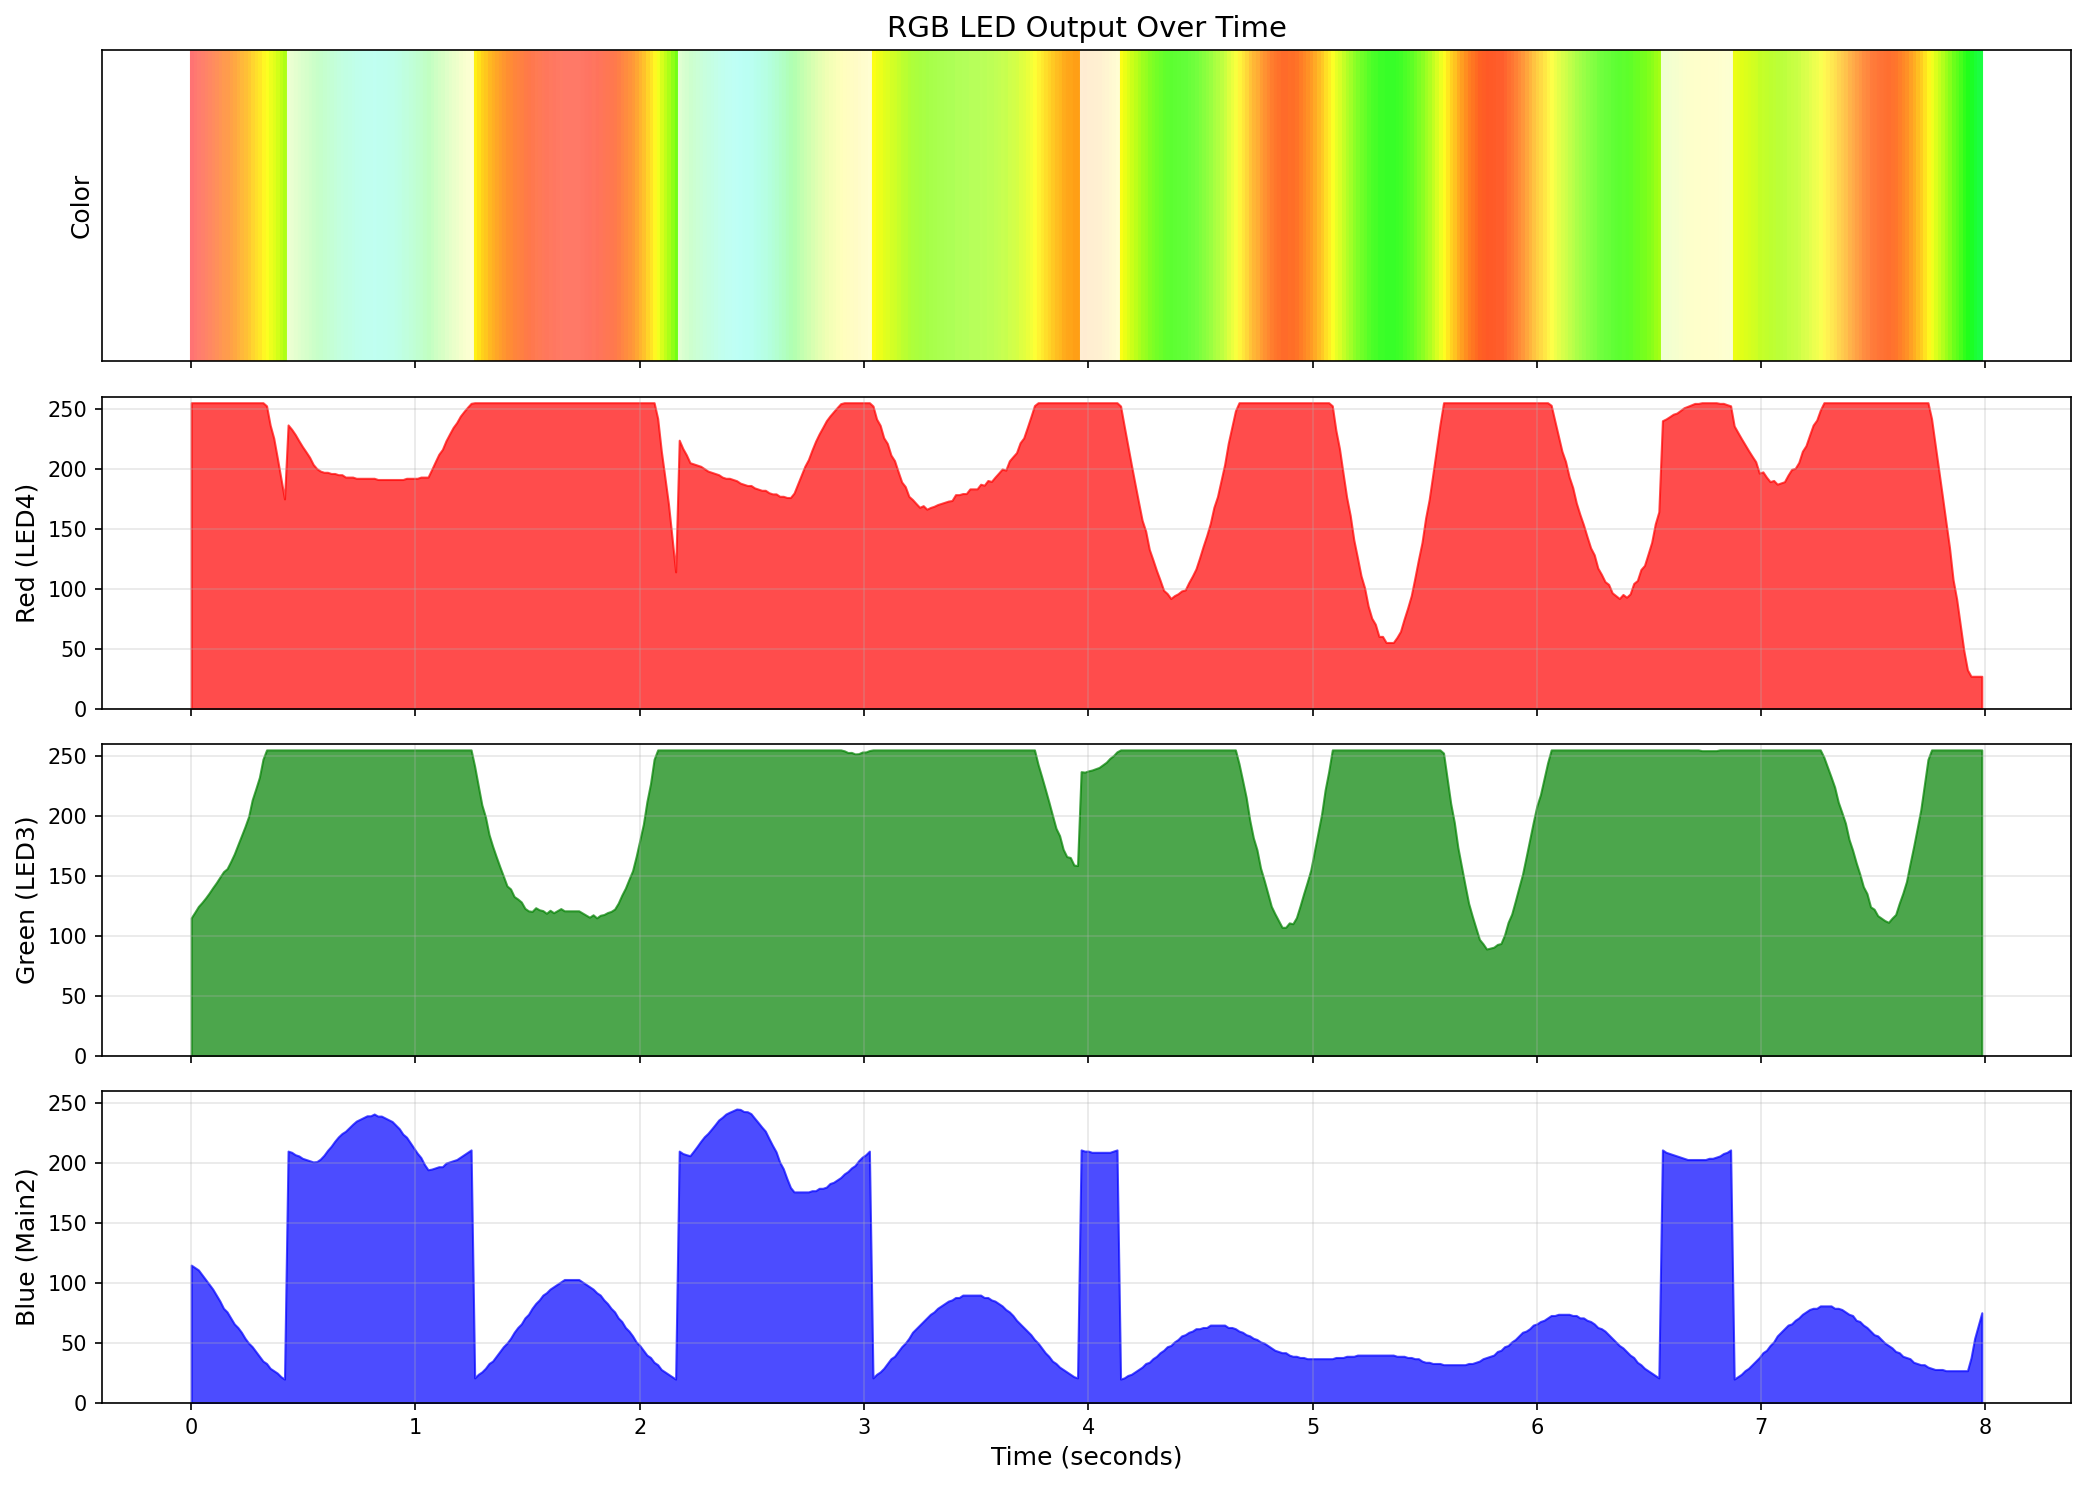
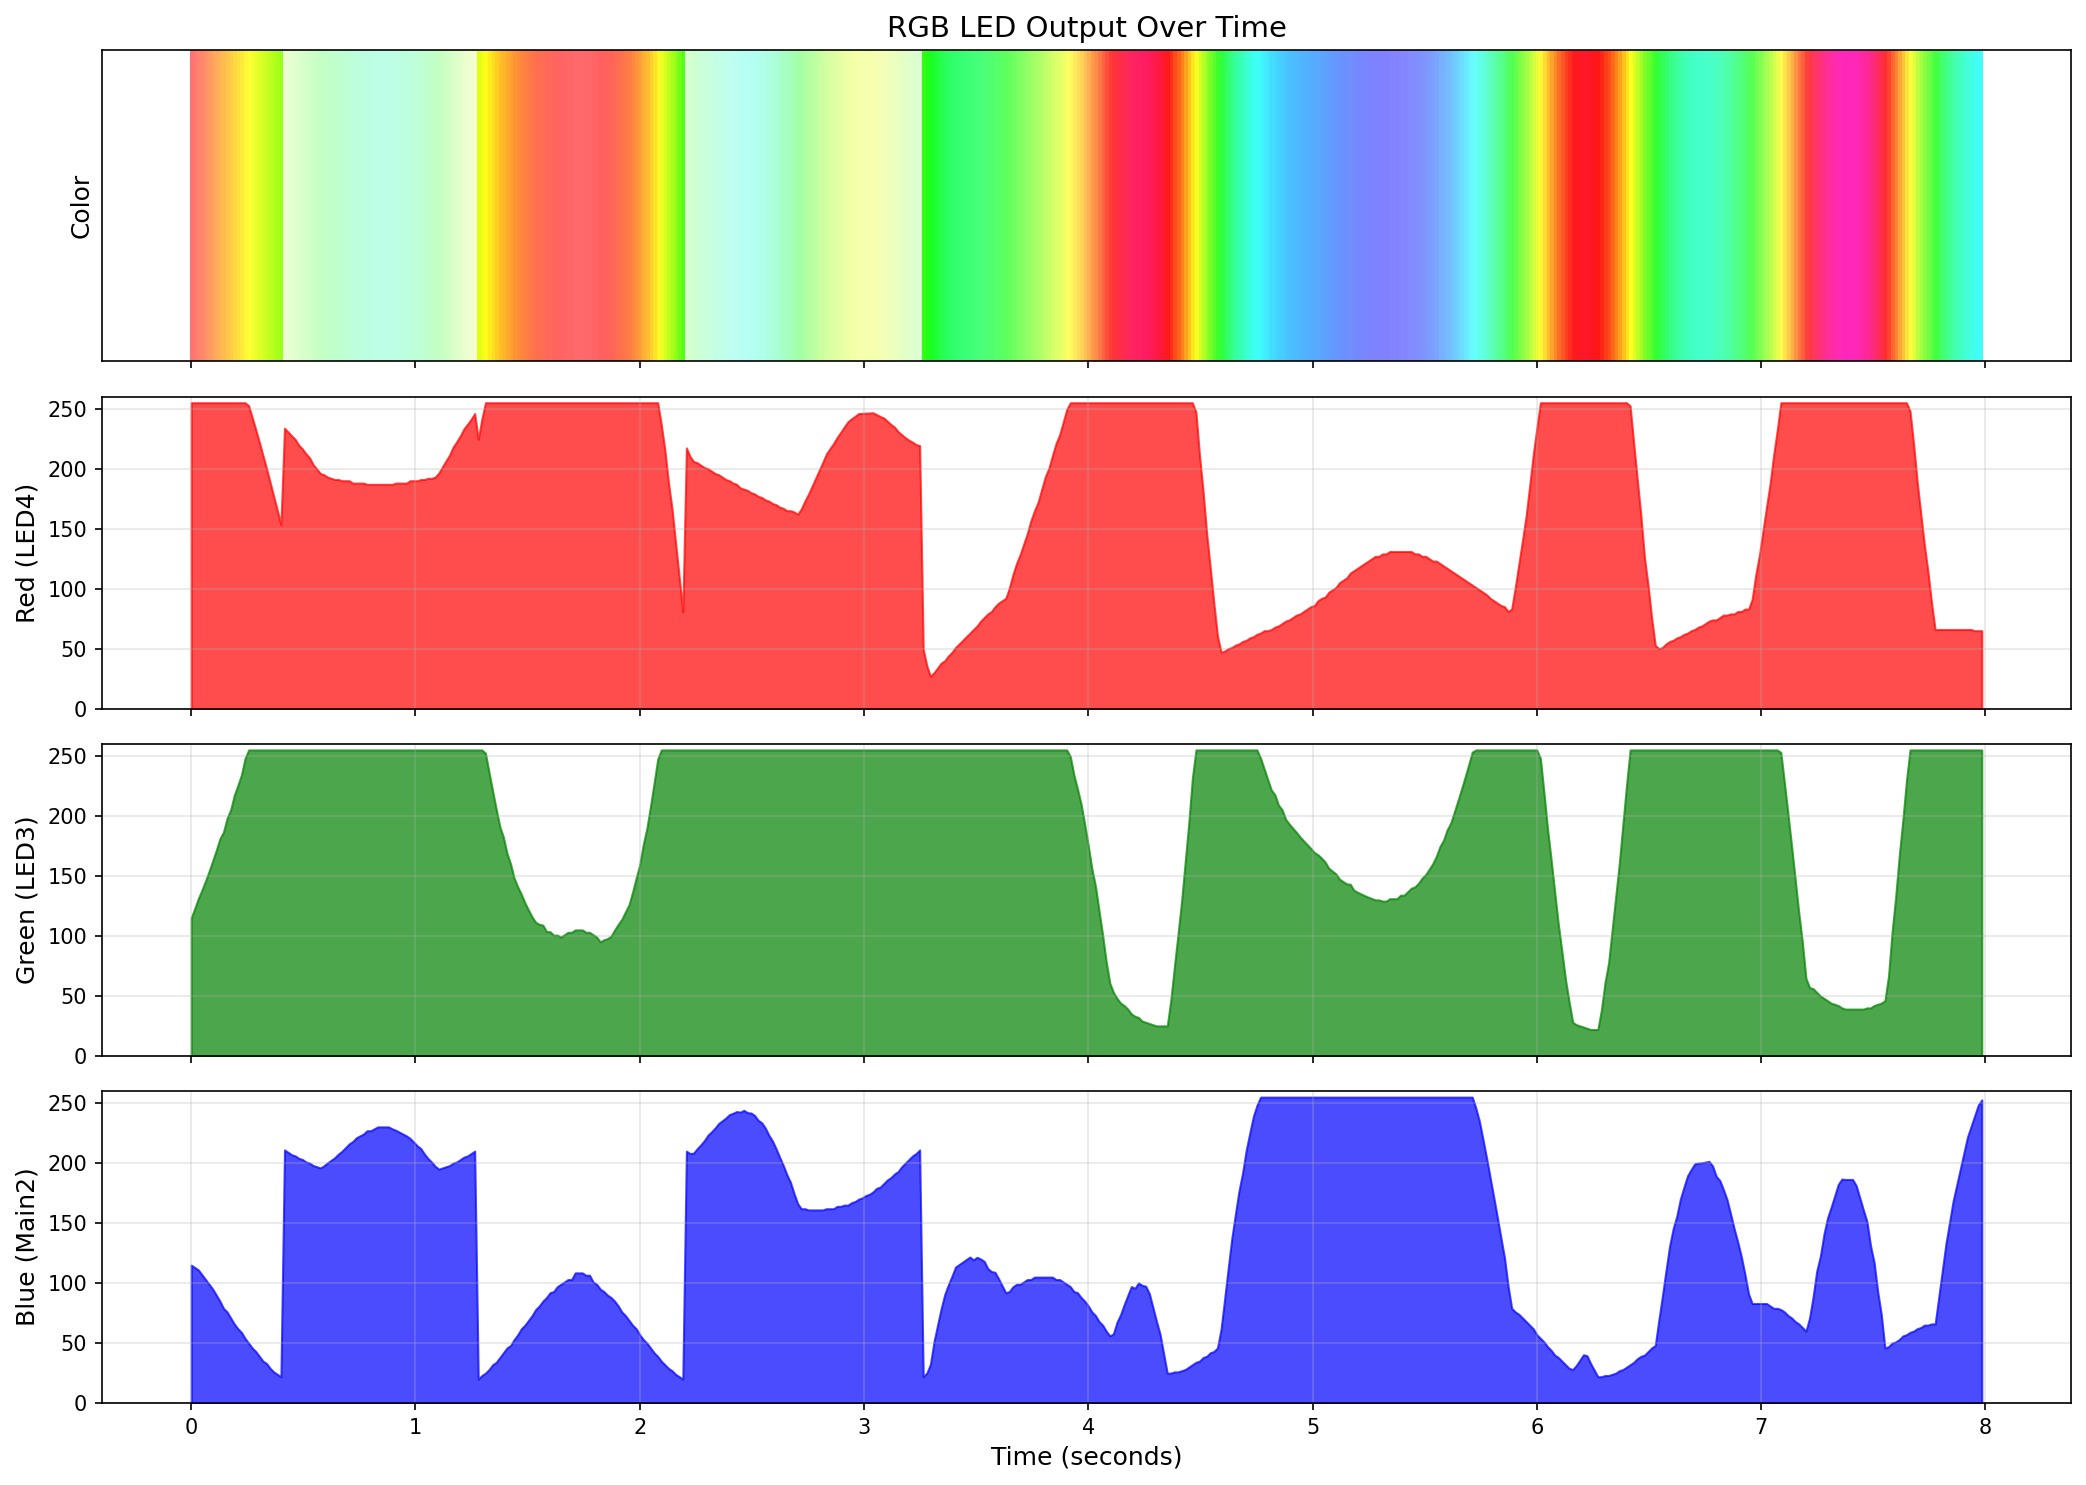
Tune initial omega1 to 1500 for full color wheel coverage
omega1=1000 still resulted in the attractor being biased toward one
half of the hue range. omega1=1500 was found empirically to give
good coverage across all four quadrants of the color wheel.

Regenerated visualizations now show full RGB coverage in the
color trajectory polar plot.

diff --git a/hw/hank/emisar-d4k-3ch/hwdef.c b/hw/hank/emisar-d4k-3ch/hwdef.c
@@ -537,9 +537,9 @@ bool gradual_tick_cct(uint8_t gt) {
 
 // State variables for coupled oscillator chaos
 static int16_t chaos_theta1 = 0;      // hue position (scaled, wraps at 65536)
-static int16_t chaos_omega1 = 1000;   // hue angular velocity (higher for full phase space exploration)
+static int16_t chaos_omega1 = 1500;   // hue angular velocity (tuned for full color wheel coverage)
 static int16_t chaos_theta2 = 0;      // saturation oscillator
-static int16_t chaos_omega2 = 800;    // saturation velocity (higher for more dynamic behavior)
+static int16_t chaos_omega2 = 800;    // saturation velocity
 
 // Convert triangle_wave output (0-255) to signed (-128..127)
 static inline int8_t signed_wave(uint8_t phase) {

diff --git a/tools/chaos_simulation.py b/tools/chaos_simulation.py
@@ -114,9 +114,9 @@ def simulate_chaos(n_steps, energy=128, initial_state=None):
     if initial_state is None:
         state = {
             'theta1': 0,
-            'omega1': 1000,   # higher for full phase space exploration
+            'omega1': 1500,   # tuned for full color wheel coverage
             'theta2': 0,
-            'omega2': 800     # higher for more dynamic behavior
+            'omega2': 800
         }
     else:
         state = initial_state.copy()
